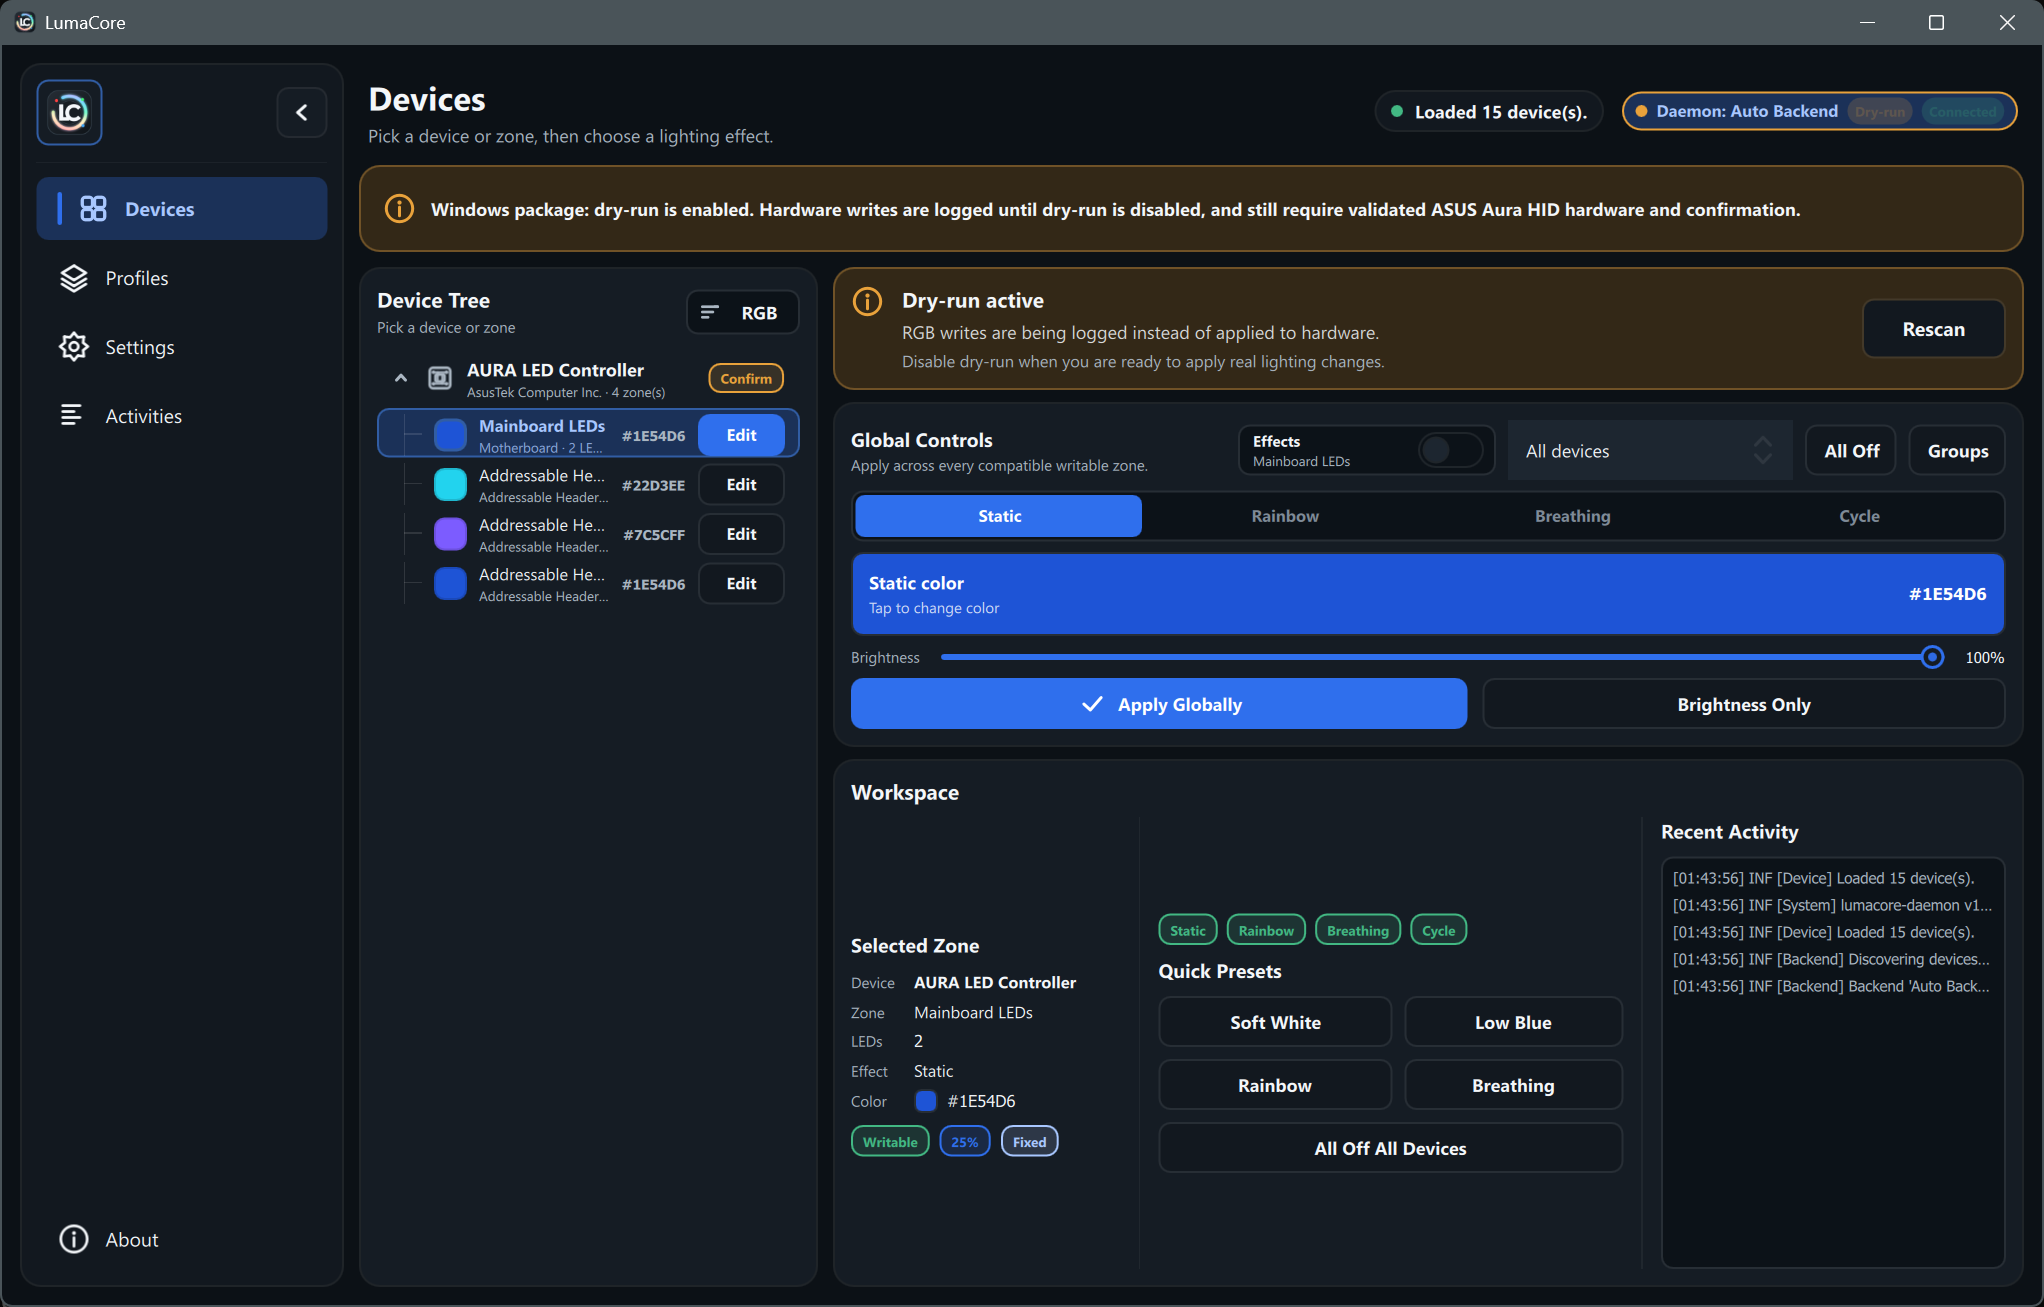
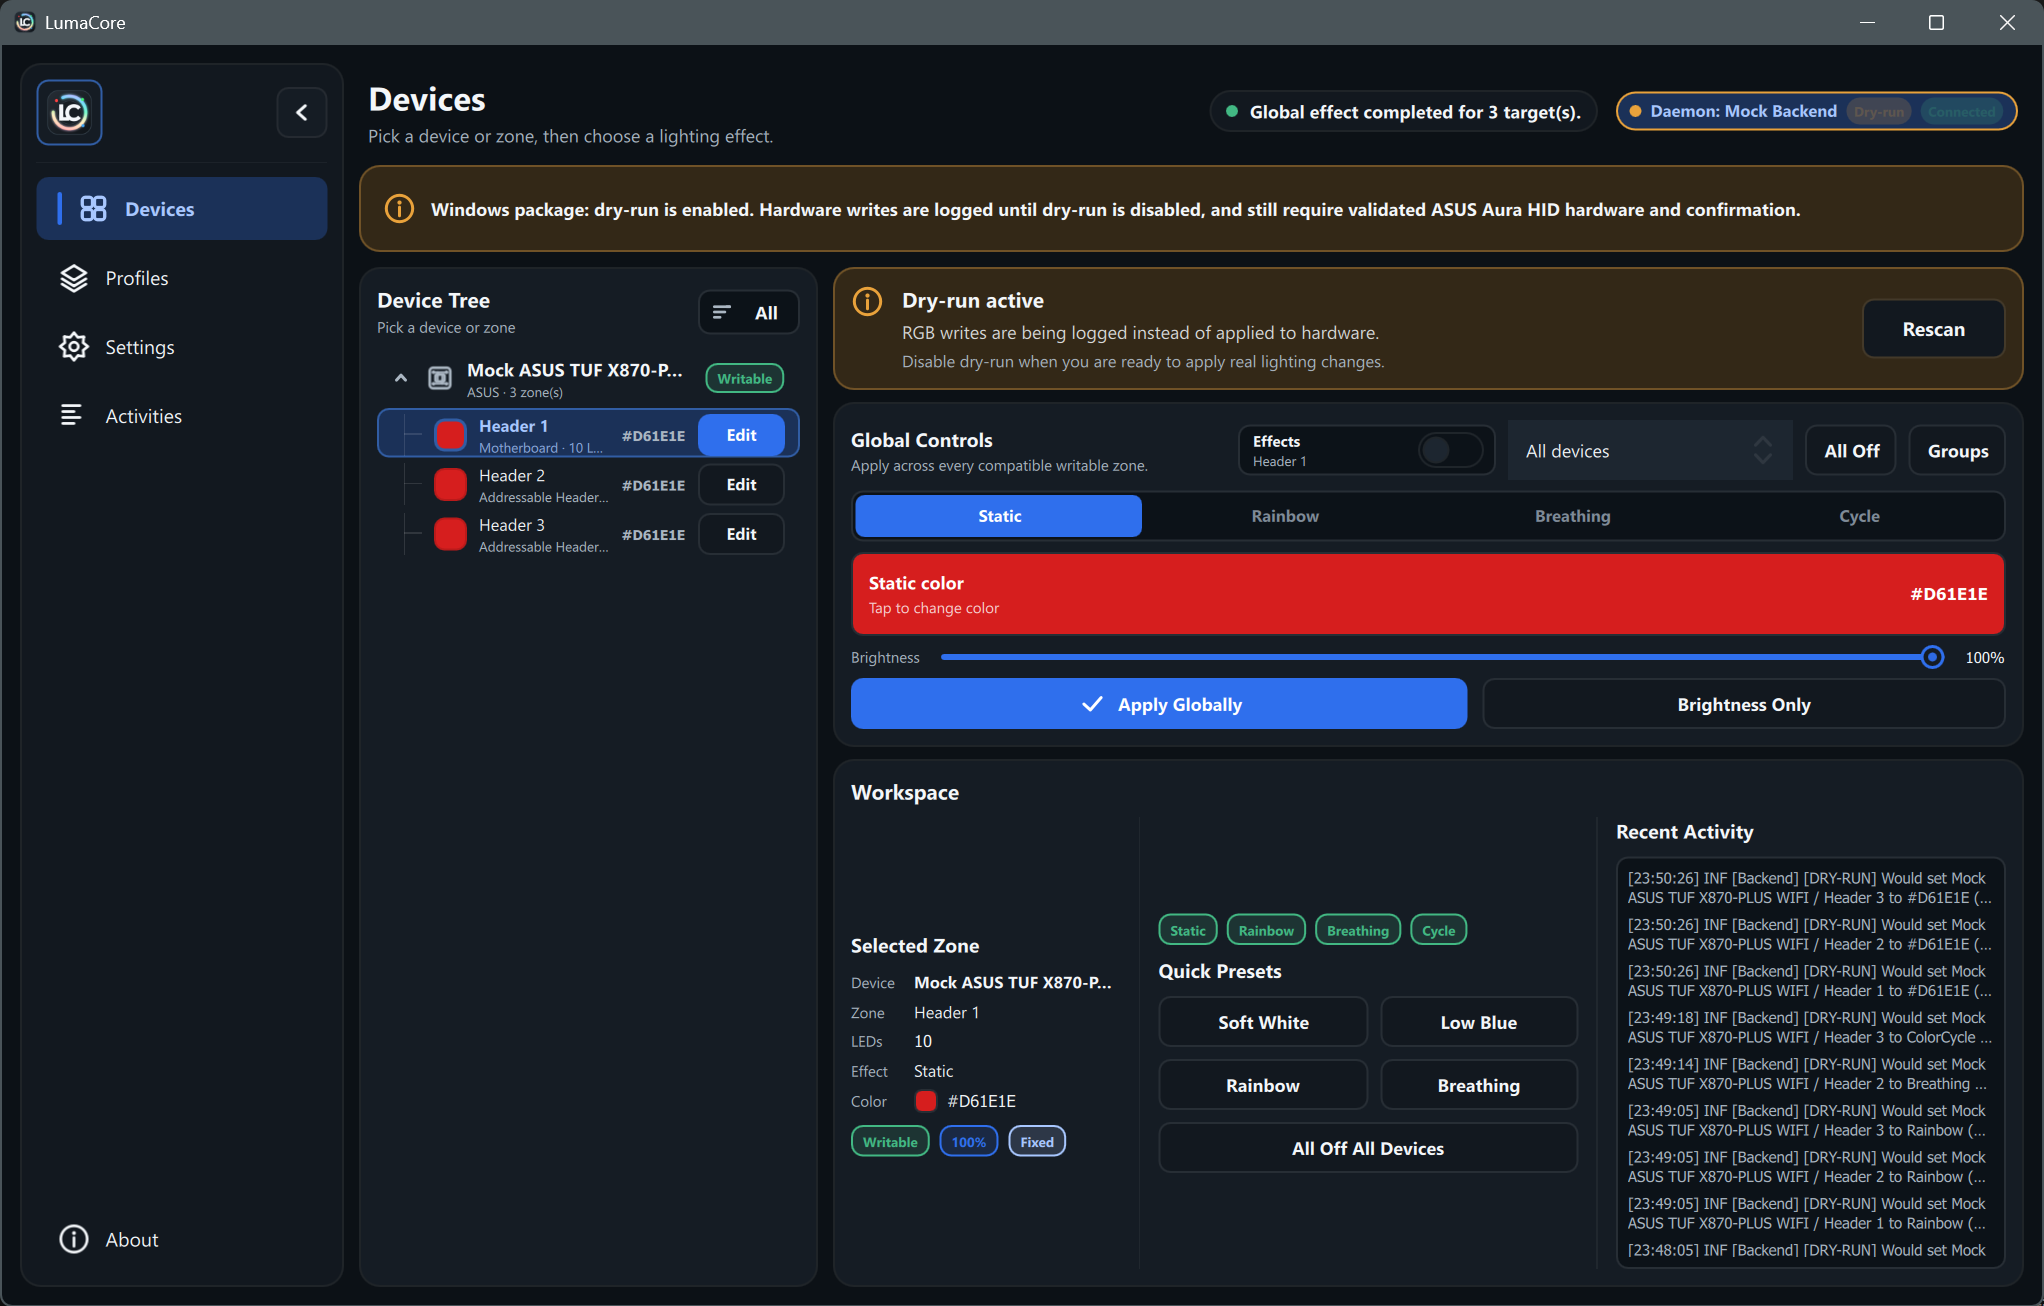
docs: refresh readme screenshots for the flat sidebar and effect previews
Replace the screenshot set with current-UI captures: the devices view
with the expanded navigation, the collapsed sidebar showing a live
animated effect preview, the collapsed static view, and the profile
apply preview dialog. Drop the stale backend-dialog, light-theme, and
confirmation captures that no longer match the shipped interface, and
point the README at the new files.

Verification:
- assets-only plus README image links; git status confirms 2 replaced,
  2 added, 4 removed, and README references resolve to existing files

diff --git a/README.md b/README.md
@@ -18,11 +18,11 @@ Linux uses a system-style daemon and optional systemd unit. Windows 10/11 x64 us
 
 ![LumaCore Devices view](assets/screenshots/lumacore-devices.png)
 
-![LumaCore collapsed sidebar devices view](assets/screenshots/lumacore-devices-collapsed.png)
+![LumaCore collapsed sidebar with a live effect preview](assets/screenshots/lumacore-devices-collapsed.png)
 
-![LumaCore active backend dialog](assets/screenshots/lumacore-backend-dialog.png)
+![LumaCore collapsed sidebar devices view](assets/screenshots/lumacore-devices-collapsed2.png)
 
-Additional light-theme and confirmation screenshots are kept in `assets/screenshots/`.
+![LumaCore profile apply preview](assets/screenshots/lumacore-apply-config.png)
 
 ## Current Capabilities
 